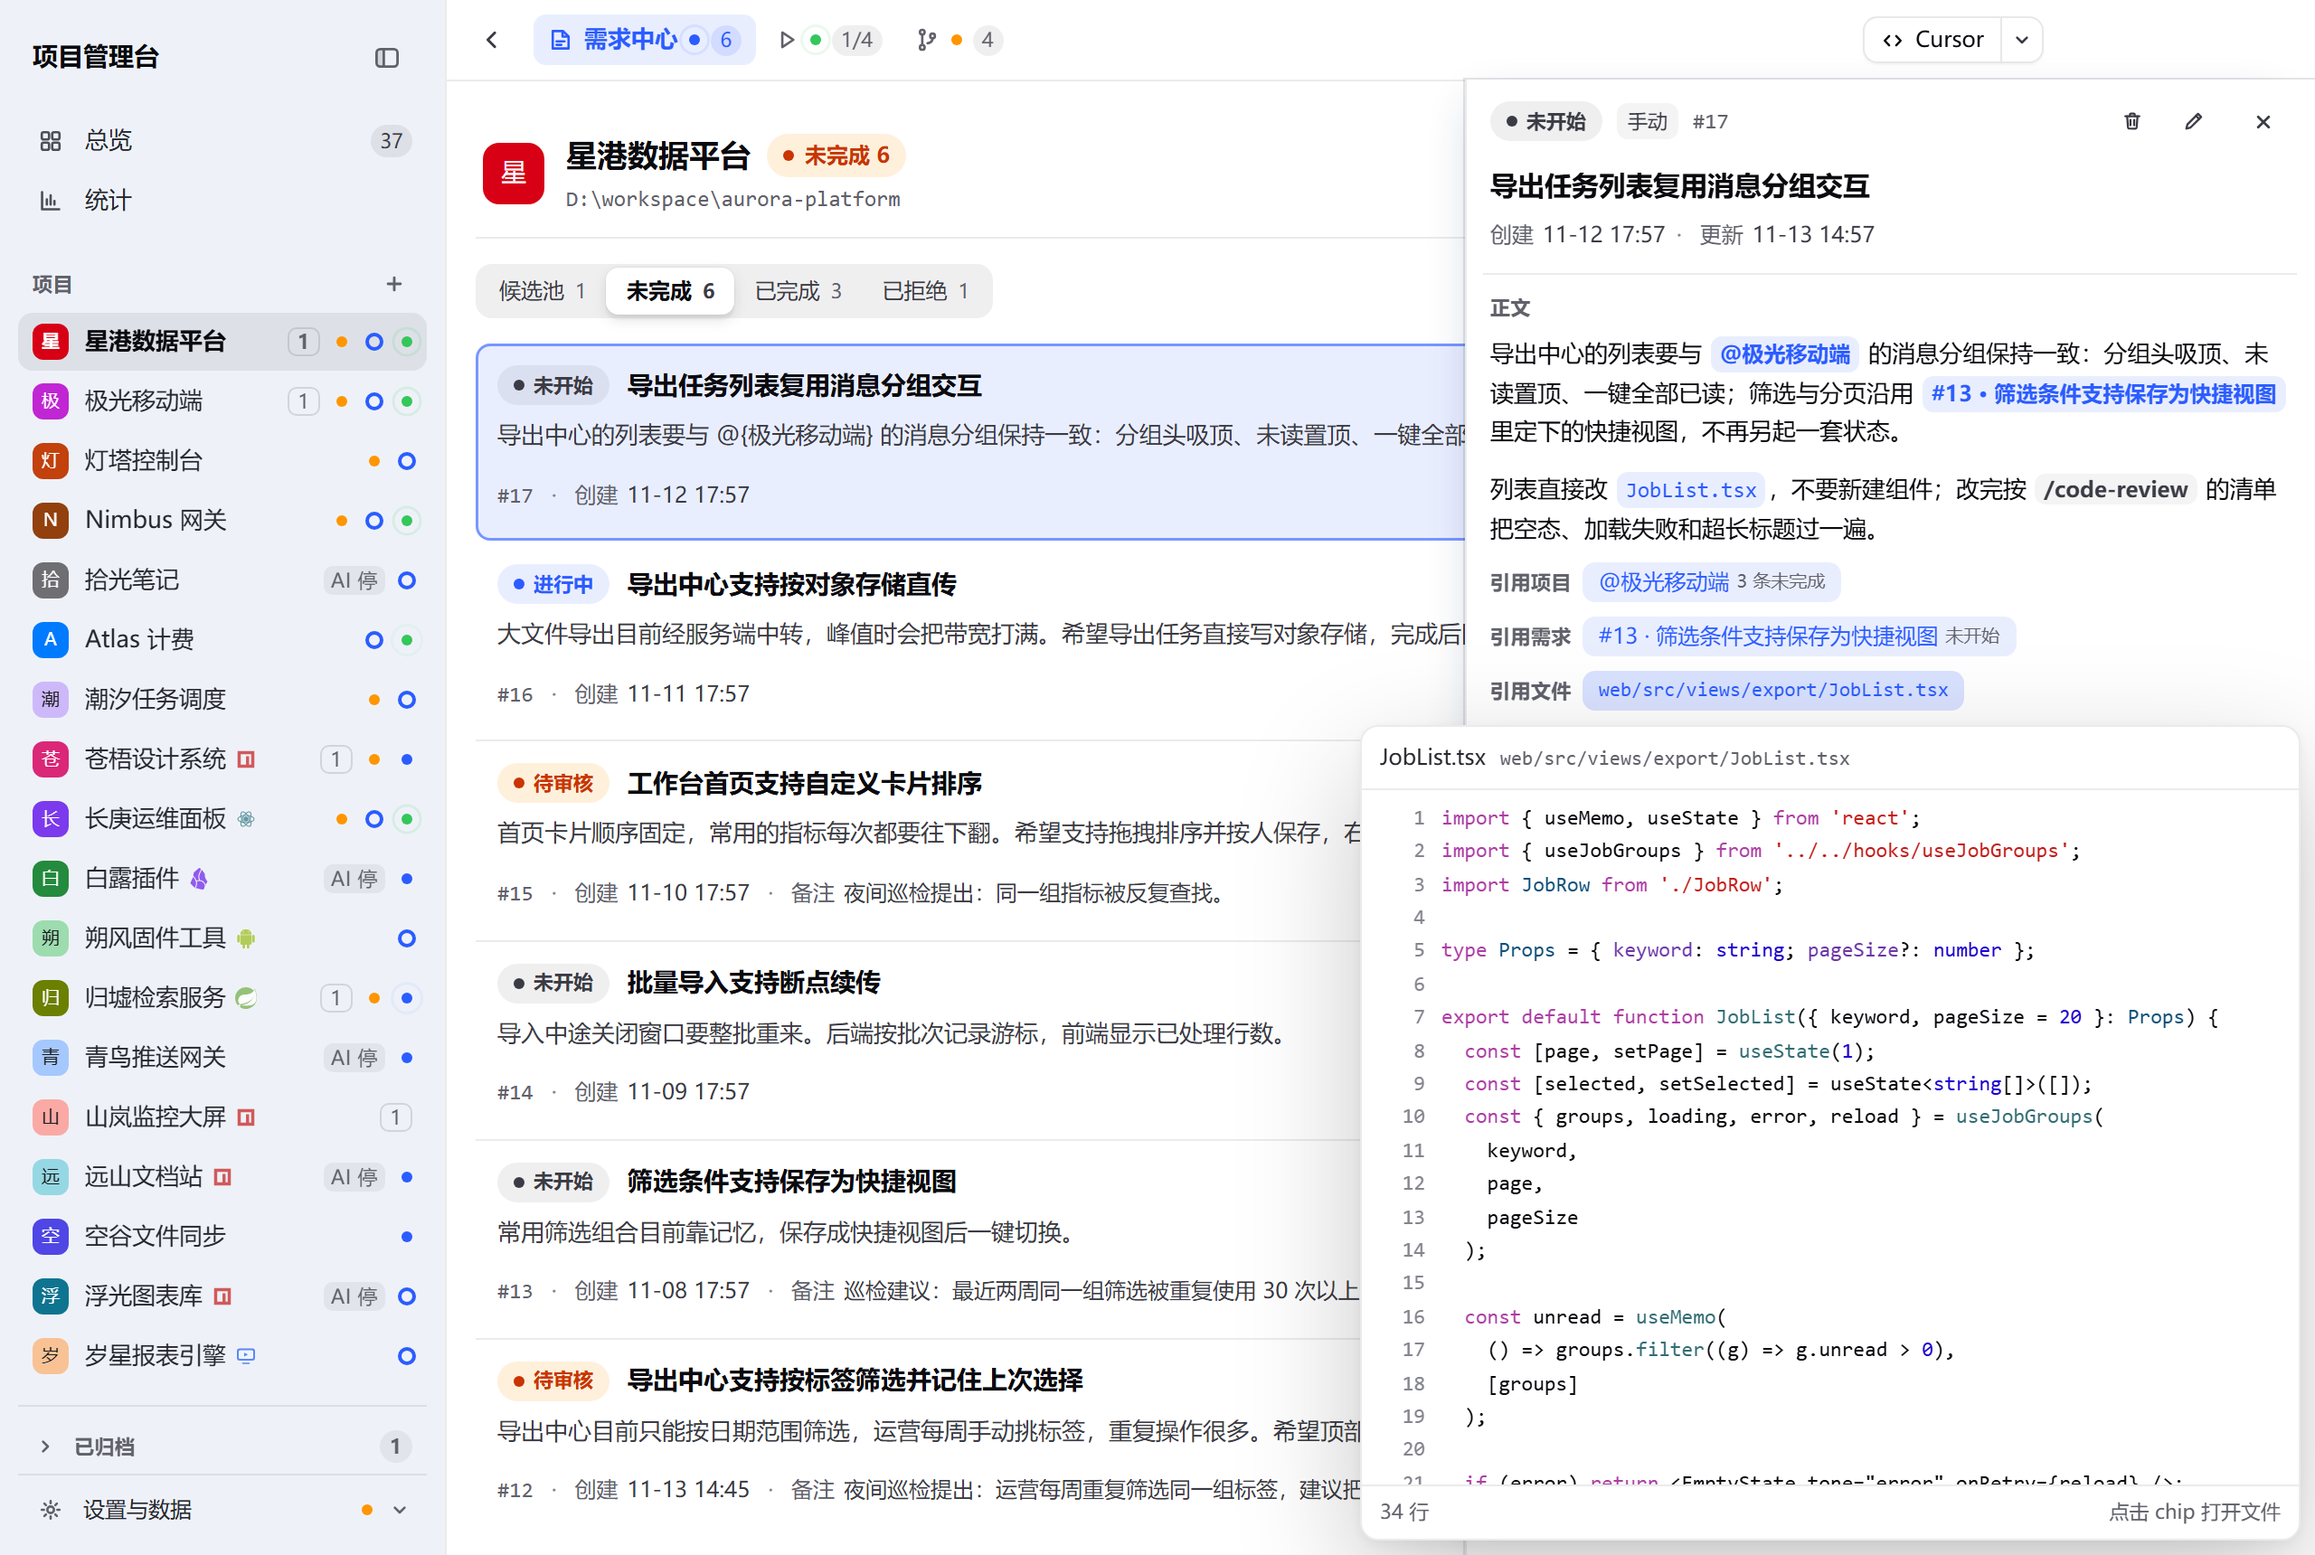
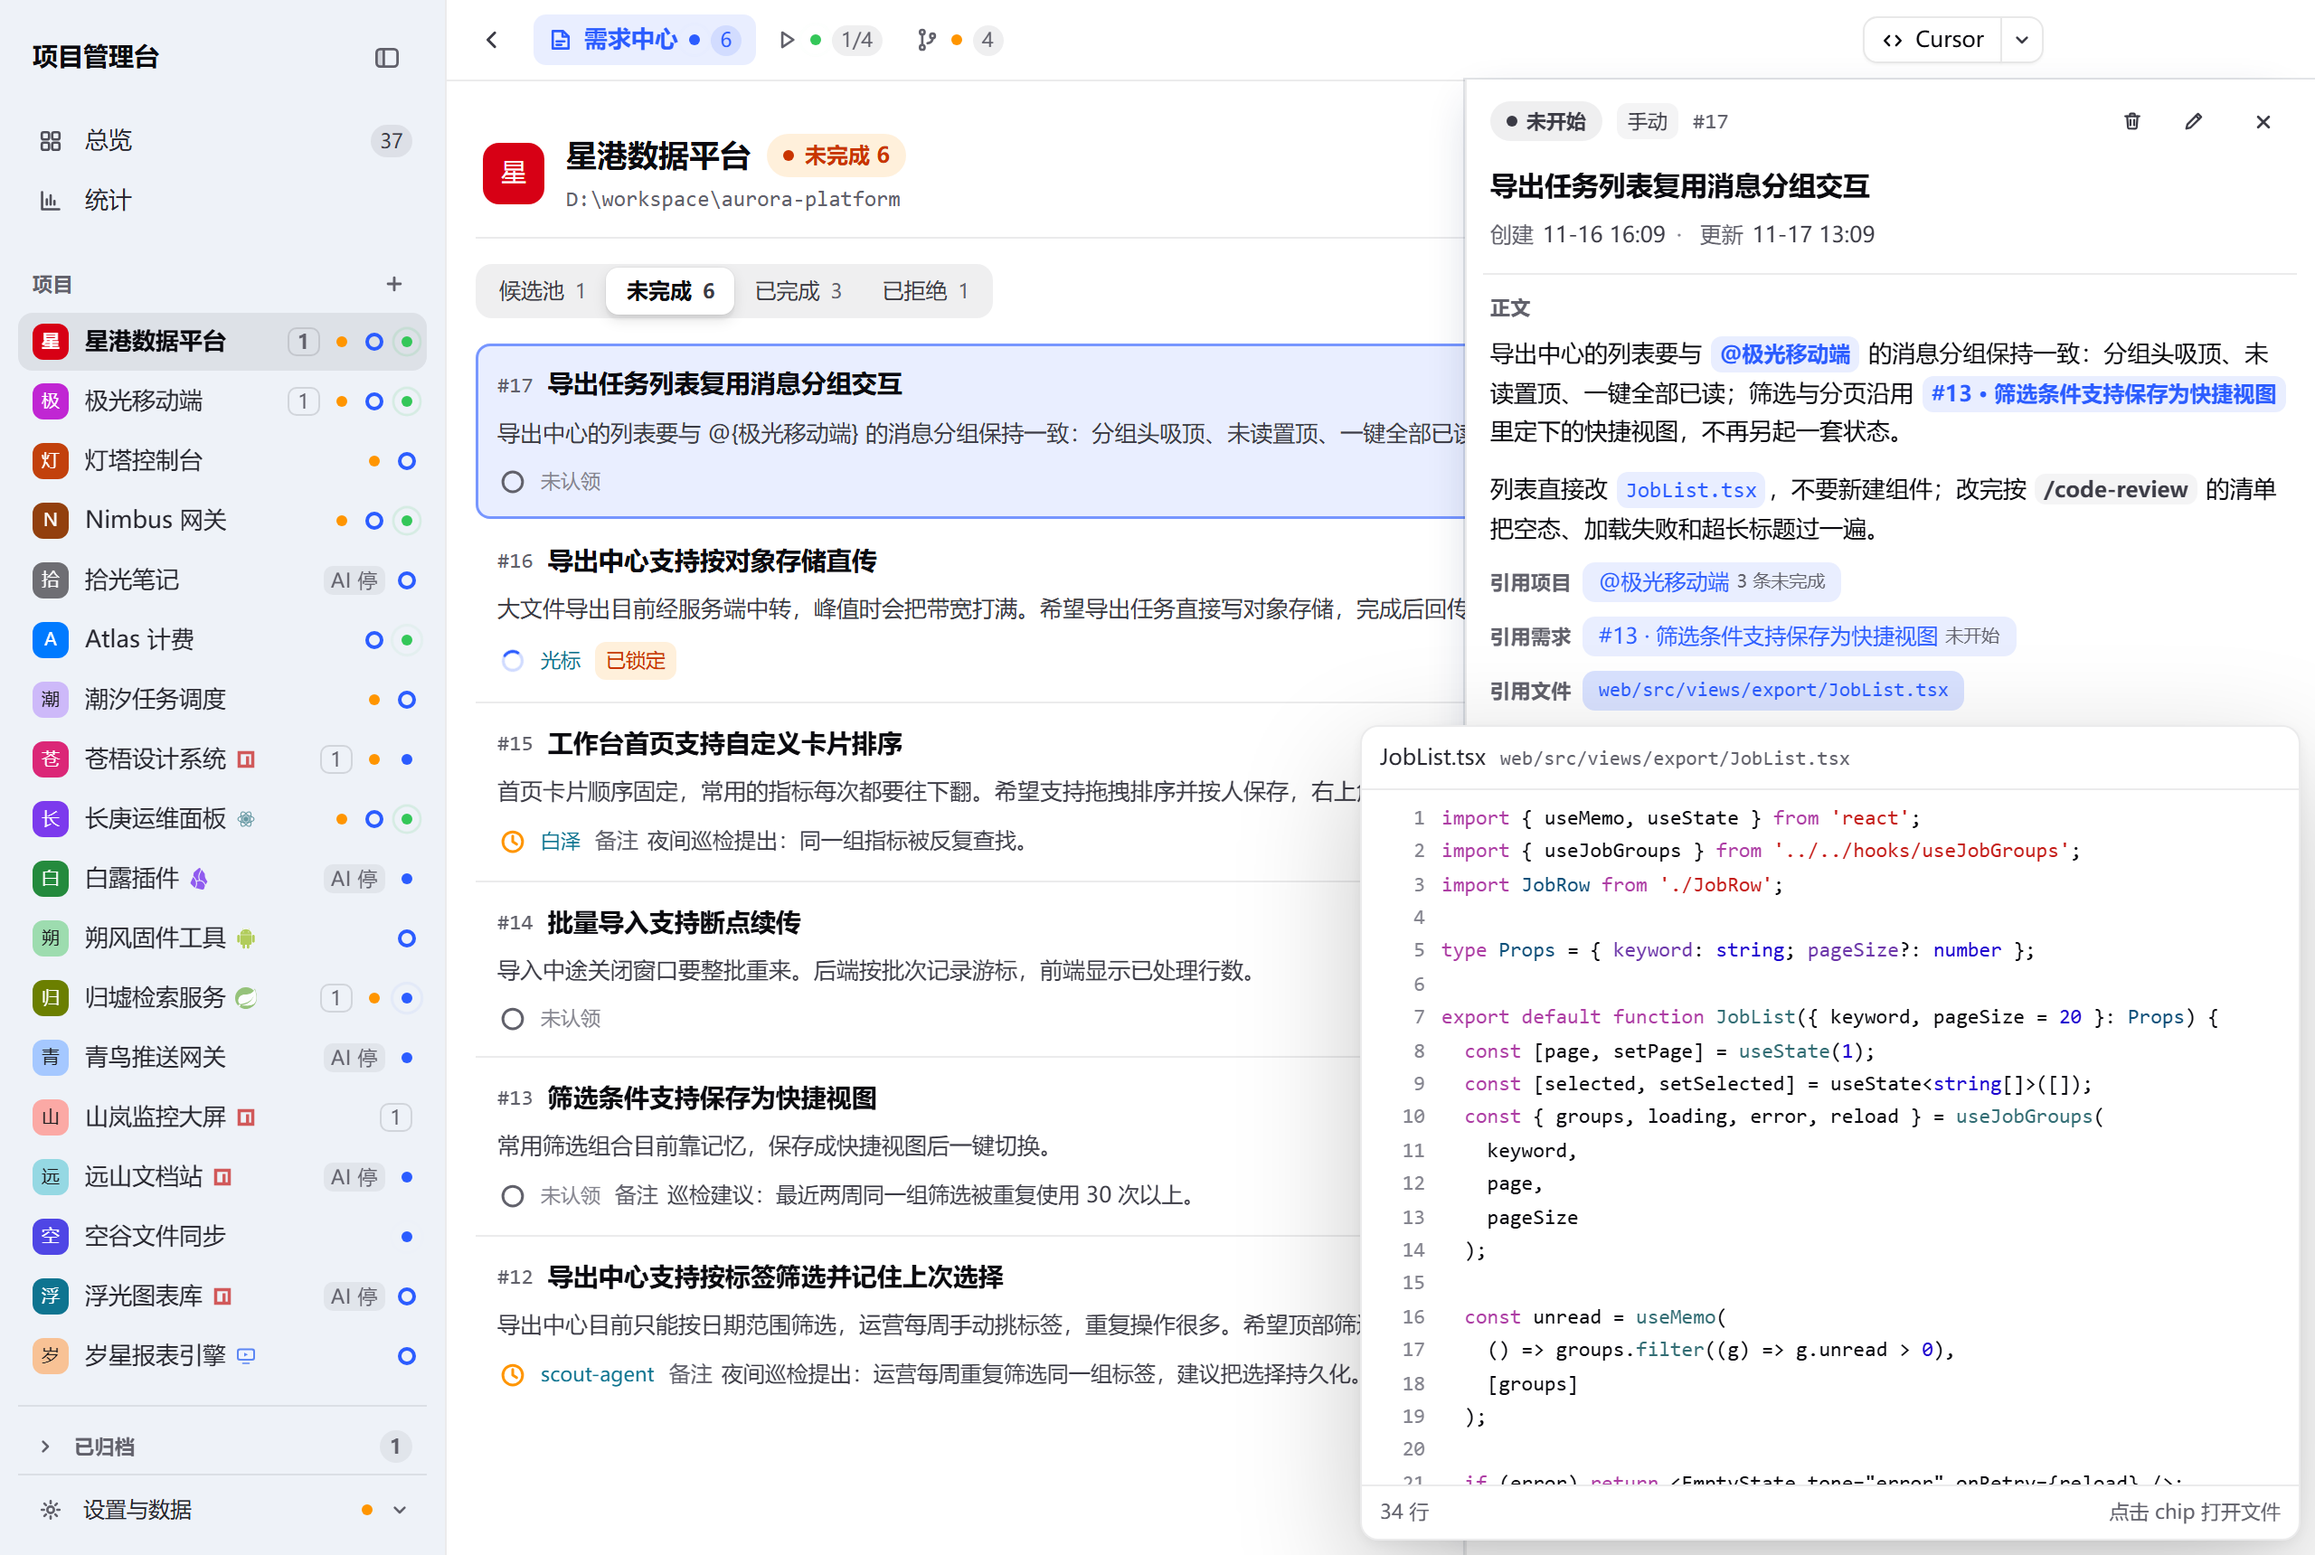
docs: README 增加需求看板截图与说明
- README 界面新增看板截图，需求中心改注为列表视图
- 功能条目补充看板分列、卡片信息与候选采纳位置
- 截图技能新增 requirements-board 场景并同步文档
- 重截需求看板、需求中心、统计与引用悬停截图

Changed region(s): [[0.2188, 0.2157, 0.625, 0.986], [0.6875, 0.1233, 0.7188, 0.1541], [0.25, 0.9552, 0.2812, 0.986]]

diff --git a/.agent/skills/app-screenshots/references/shot-plan.md b/.agent/skills/app-screenshots/references/shot-plan.md
@@ -20,6 +20,8 @@
 | 全局导航 | `.nav-item` |
 | 项目视图页签 | `.vtab`（需求中心 / 启动台 / 修改记录） |
 | 需求行 | `.req`（标题在 `.req-title`） |
+| 视图切换 | `.viewseg [aria-label="看板视图"]` / `.viewseg [aria-label="列表视图"]` |
+| 看板列与卡片 | `.board .bcol`、`.board .bcard`（标题在 `.bcard-title`） |
 | 需求详情根 | `.rd-title` |
 | 正文引用 chip | `.rd-body .ref-chip`（项目 / 需求 / 文件；技能是同类的 `.ref-chip.skill`） |
 | 引用清单行 | `.rd-ref`（项目 / 需求 / 文件；`.rd-ref.rd-file` 是文件行，行本身也能悬停） |
@@ -36,12 +38,13 @@
 
 1. **overview**：等 `.ov-row` 数量 > 3，确认 `dataset.theme` 已是目标主题，直接截。
 2. **statistics**：点 `.nav-item`「统计」→ 等 `.stat-chart`。
-3. **requirements**：点 `.pitem`「星港数据平台」→ 等 `.req` → 点标题含「工作台首页支持自定义卡片排序」的需求 → 等 `.rd-title`。
-4. **requirement-refs**：仍在「星港数据平台」→ 点标题含「导出任务列表复用消息分组交互」的需求 → 等 `.rd-title` → `rpanel-body.scrollTop = 0` → 用 CDP 发 `Input.dispatchMouseEvent`（`mouseMoved` 先到 (0,0) 再到 chip 中心）悬停「引用文件」行的 `.rd-ref.rd-file`（JobList.tsx）→ 等 `.fhover` 出现后截。悬停正文里的 `.rd-body .ref-chip.file-chip` 也能出同样的卡，但那张卡会盖住下方引用清单，README 用图取前者。
-5. **launch**：点 `.vtab`「启动台」→ 等 `.rlogs .log`（默认自动选运行中的命令）。
-6. **changes**：点 `.vtab`「修改记录」→ 等 `.gtree .gfile` → 点 `ExportPanel.tsx` → 等 `.diff-body`。
-7. **agent-resume**：点 `.vtab`「需求中心」→ 点 `.pitem`「极光移动端」→ 点「消息中心支持按项目分组并置顶未读」（doing + claim）→ 等 `.rd-title` → `rpanel-body.scrollTop = scrollHeight`，截到底部「解锁项目」。
-8. **agent-question**：点「灰度开关默认值改为跟随系统」（doing + question）→ 等 `.rd-ask` → **先把 `rpanel-body.scrollTop` 复位为 0**；默认不滚动以保留标题/正文上下文，只有卡片底部超出面板时才按超出量滚动最小距离，等 1100ms 后截。不要直接 `scrollIntoView('start')`，否则会把顶部信息顶出可视区。
+3. **requirements-board**：点 `.pitem`「星港数据平台」→ 等 `.req` → 点 `.viewseg [aria-label="看板视图"]` → 等 `.board .bcard` 数量 > 3（右面板此前已打开时先去统计页让它收起，否则中区被挤窄）→ 截完点「列表视图」切回，后续场景仍按列表点击。
+4. **requirements**：点 `.pitem`「星港数据平台」→ 等 `.req` → 点标题含「工作台首页支持自定义卡片排序」的需求 → 等 `.rd-title`。
+5. **requirement-refs**：仍在「星港数据平台」→ 点标题含「导出任务列表复用消息分组交互」的需求 → 等 `.rd-title` → `rpanel-body.scrollTop = 0` → 用 CDP 发 `Input.dispatchMouseEvent`（`mouseMoved` 先到 (0,0) 再到 chip 中心）悬停「引用文件」行的 `.rd-ref.rd-file`（JobList.tsx）→ 等 `.fhover` 出现后截。悬停正文里的 `.rd-body .ref-chip.file-chip` 也能出同样的卡，但那张卡会盖住下方引用清单，README 用图取前者。
+6. **launch**：点 `.vtab`「启动台」→ 等 `.rlogs .log`（默认自动选运行中的命令）。
+7. **changes**：点 `.vtab`「修改记录」→ 等 `.gtree .gfile` → 点 `ExportPanel.tsx` → 等 `.diff-body`。
+8. **agent-resume**：点 `.vtab`「需求中心」→ 点 `.pitem`「极光移动端」→ 点「消息中心支持按项目分组并置顶未读」（doing + claim）→ 等 `.rd-title` → `rpanel-body.scrollTop = scrollHeight`，截到底部「解锁项目」。
+9. **agent-question**：点「灰度开关默认值改为跟随系统」（doing + question）→ 等 `.rd-ask` → **先把 `rpanel-body.scrollTop` 复位为 0**；默认不滚动以保留标题/正文上下文，只有卡片底部超出面板时才按超出量滚动最小距离，等 1100ms 后截。不要直接 `scrollIntoView('start')`，否则会把顶部信息顶出可视区。
 
 ## 数据约束
 

diff --git a/README.md b/README.md
@@ -27,7 +27,10 @@
 <p align="center"><strong>统计 — 提交、行数与需求处理量，按 7 天 / 30 天 / 本月切换</strong></p>
 <p align="center"><img src="doc/screenshots/statistics.png" width="960" alt="统计" /></p>
 
-<p align="center"><strong>需求中心 — 候选、进行中、待审核在同一条时间线上推进</strong></p>
+<p align="center"><strong>需求看板 — 候选池 / 未完成 / 已完成·已拒绝 三列铺开，进行中与待审核置顶</strong></p>
+<p align="center"><img src="doc/screenshots/requirements-board.png" width="960" alt="需求看板" /></p>
+
+<p align="center"><strong>需求中心（列表视图）— 候选、进行中、待审核在同一条时间线上推进</strong></p>
 <p align="center"><img src="doc/screenshots/requirements.png" width="960" alt="需求中心" /></p>
 
 <p align="center"><strong>需求详情 — 正文用 @ 引用其他项目、本项目需求与文件，用 / 引用技能；悬停就地查看需求或文件内容</strong></p>
@@ -47,7 +50,8 @@
 
 ## 功能
 
-- **需求中心** — 候选池、未开始、进行中、待审核、已完成；AI 提的需求先进候选池，点了「采纳」才进队列。
+- **需求中心** — 列表与看板两种视图，切换后记住偏好；看板按候选池、未完成（进行中 / 待审核置顶）、已完成 / 已拒绝三列铺开，卡片上直接看到状态、认领人与更新时间，操作悬停浮在右下角。AI 提的需求先进候选池，在右侧详情里看完正文再点「采纳」或「丢弃」。
+- **需求详情** — 正文渲染 markdown（含 GFM 表格）；`@` 引用其他项目、本项目需求与文件，`/` 引用技能，悬停就地预览内容，不用离开当前需求。
 - **让 agent 干活** — 本地 MCP 接入后，agent 能提需求、认领、交付、提问；认领与验收按项目串行，命令启停不对 AI 开放。
 - **启动台** — 点一下跑本地进程，日志保留 ANSI 颜色；退出时可选择分离，应用关了进程继续跑。
 - **修改记录** — 当前改动和提交历史在一棵树里，行内展开 diff；验收时可顺手提交并推送。
